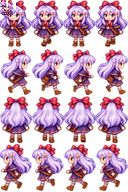
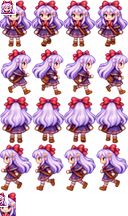
alpha27.0.7.6.4: isolate MiMi social mugshot and fix TMX CSV

diff --git a/src/Cardcha/ModEntry.cs b/src/Cardcha/ModEntry.cs
@@ -193,7 +193,7 @@ internal sealed class ModEntry : Mod
         BookNavigationPatch.Apply(harmony, this.BookTab);
 
         this.Monitor.Log(
-            $"Cardcha! v0.3.0-alpha.27.0.7.6 UI SOCIAL + ATTIC SHELL POLISH TEST with {this.Cards.All.Count} cards. The cardboard is now combat-capable. This seems unsafe.",
+            $"Cardcha! v0.3.0-alpha.27.0.7.6.4 SOCIAL MUGSHOT + TMX HOTFIX TEST with {this.Cards.All.Count} cards. The cardboard is now combat-capable. This seems unsafe.",
             LogLevel.Info
         );
     }
@@ -881,7 +881,7 @@ internal sealed class ModEntry : Mod
     private void CommandVersion(string command, string[] args)
     {
         this.Monitor.Log(
-            "Cardcha! v0.3.0-alpha.27.0.7.6 UI SOCIAL + ATTIC SHELL POLISH TEST",
+            "Cardcha! v0.3.0-alpha.27.0.7.6.4 SOCIAL MUGSHOT + TMX HOTFIX TEST",
             LogLevel.Alert
         );
     }

diff --git a/src/Cardcha/Services/MimiMysteryTownService.cs b/src/Cardcha/Services/MimiMysteryTownService.cs
@@ -180,7 +180,7 @@ internal sealed class MimiMysteryTownService
                 // Native world renderer uses the official 32x48 MiMi walk master directly.
                 // The NPC actor scale preserves the approved in-game size.
                 SetPointProperty(mimi, "Size", 32, 48);
-                SetRectangleProperty(mimi, "MugShotSourceRect", 0, 0, 16, 15);
+                SetRectangleProperty(mimi, "MugShotSourceRect", 0, 192, 16, 24);
                 SetPointProperty(mimi, "EmoteOffset", 0, -24);
                 SetProperty(mimi, "Shadow", new CharacterShadowData
                 {
